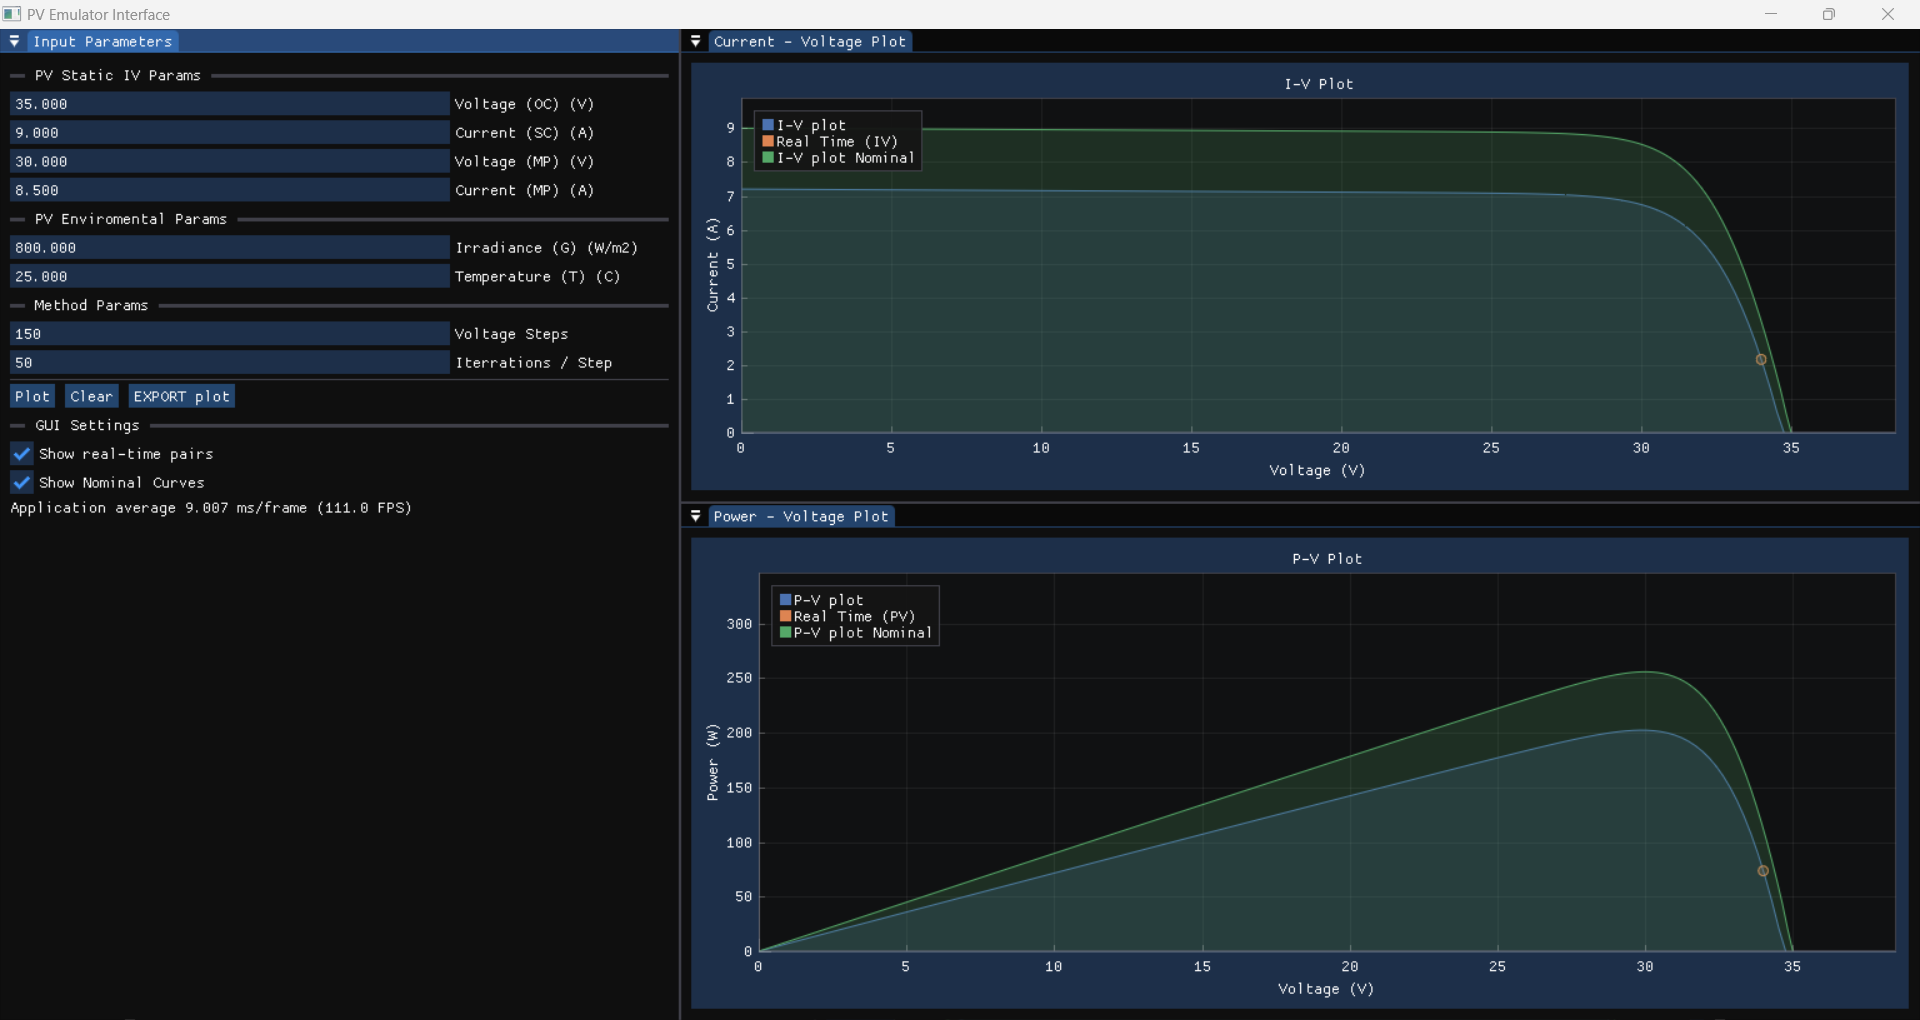
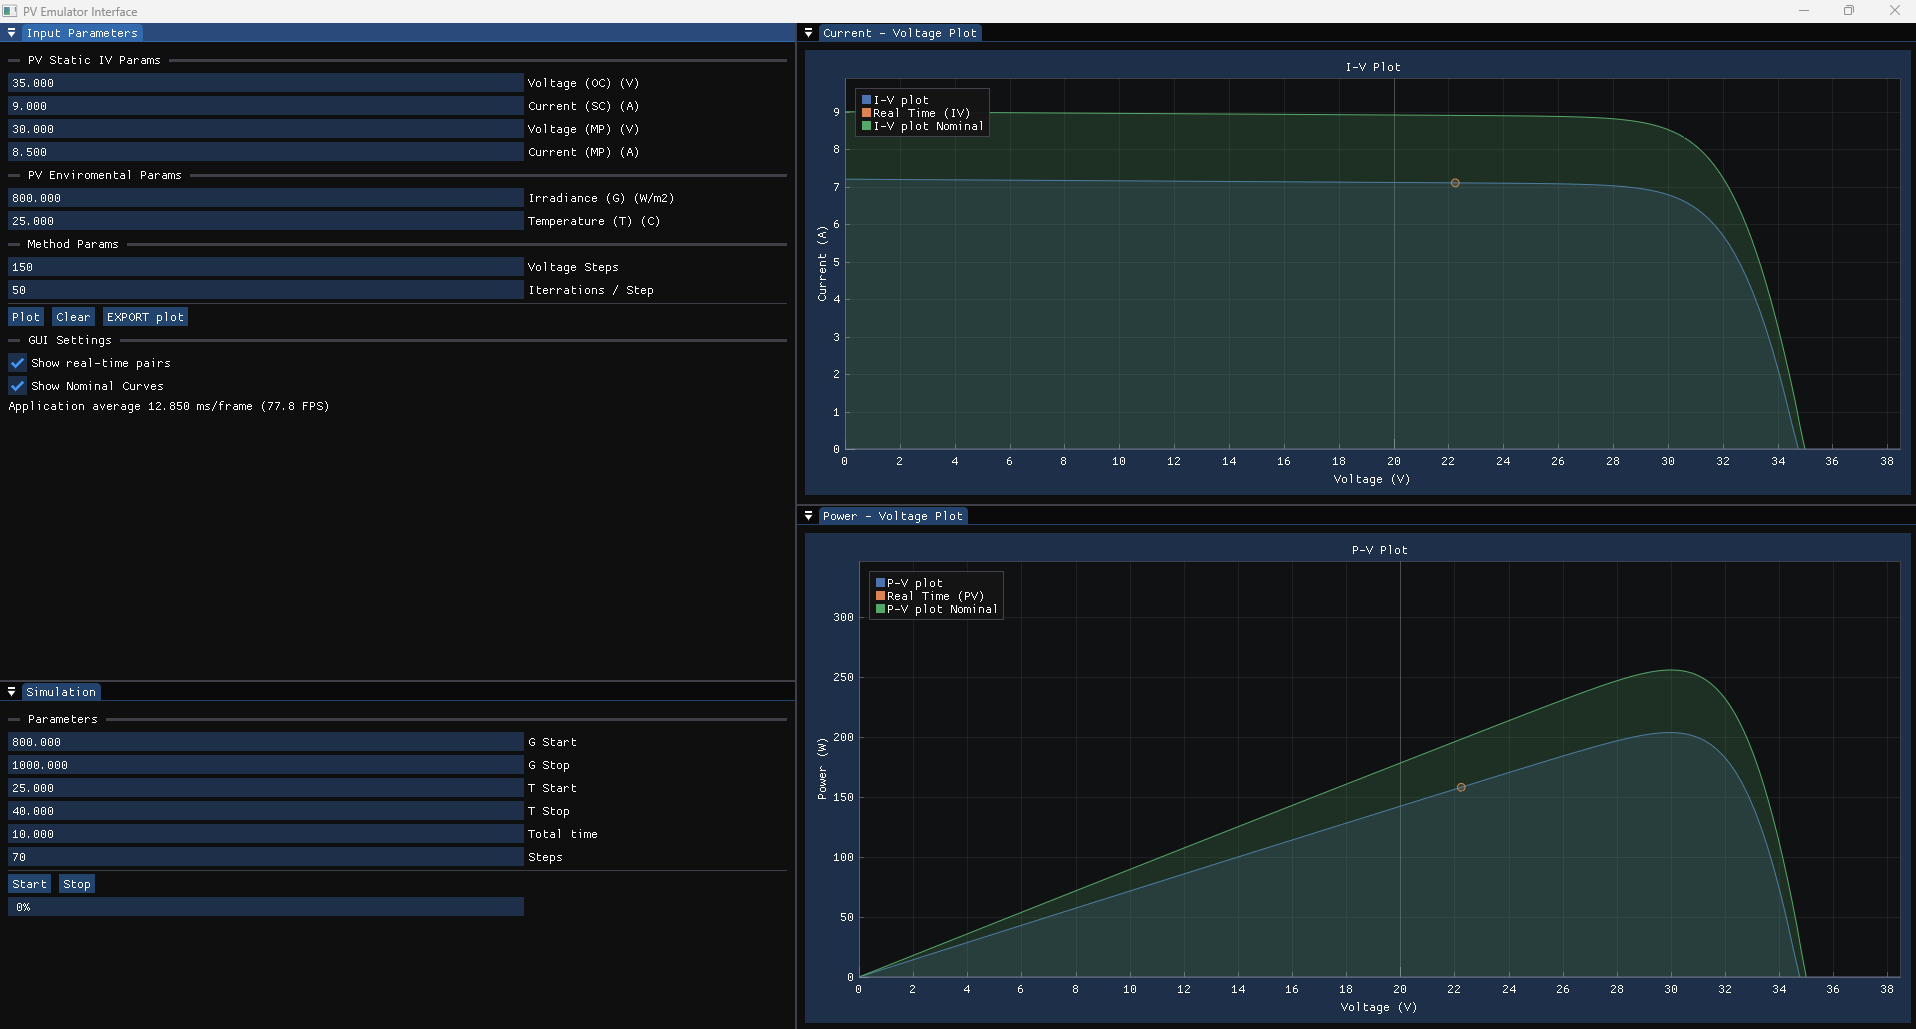
doc: update README.md

diff --git a/README.md b/README.md
@@ -5,8 +5,9 @@
 - Plot I-V and P-V curves of a PV model based only on the manufacturer characteristics
 - Automated extraction of `Rs` and `Rsh`, using approximation analytical model
 - Real time asyncronous plotting of received I-V pairs
+- Real time sweep simulation of G and T (demo video)
 - Virtual COM port communication `(#TODO)`
 
 ![Main Application Interface](./docs/main_screen.png)
 
----
+## Simulation Demo Video
